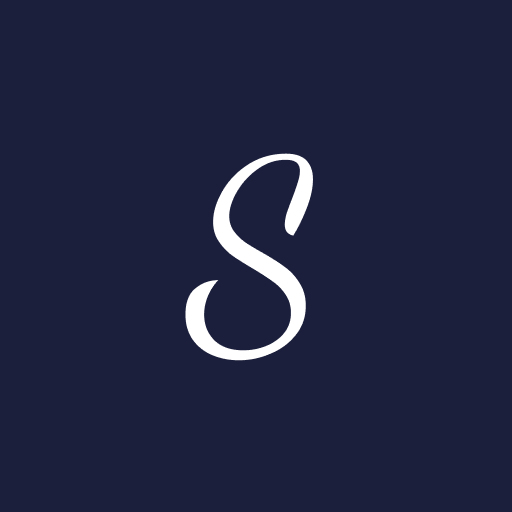
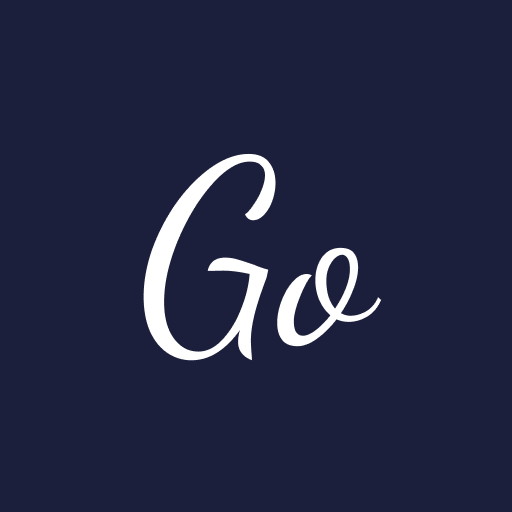
Update naming

Changed region(s): [[0.2812, 0.2812, 0.75, 0.7188]]

diff --git a/client/public/index.html b/client/public/index.html
@@ -22,7 +22,7 @@
       work correctly both with client-side routing and a non-root public URL.
       Learn how to configure a non-root public URL by running `npm run build`.
     -->
-    <title>Simplí - Simple Real Time Irish Public Transport</title>
+    <title>GoTapa - Simple Real Time Irish Public Transport</title>
   </head>
   <body>
     <noscript>

diff --git a/client/src/App.js b/client/src/App.js
@@ -39,7 +39,7 @@ class App extends Component {
           <div>
 
             <Nav>
-              <StyledLink to="/">Simplí</StyledLink>
+              <StyledLink to="/">GoTapa</StyledLink>
             </Nav>
 
             <PageContainer>
